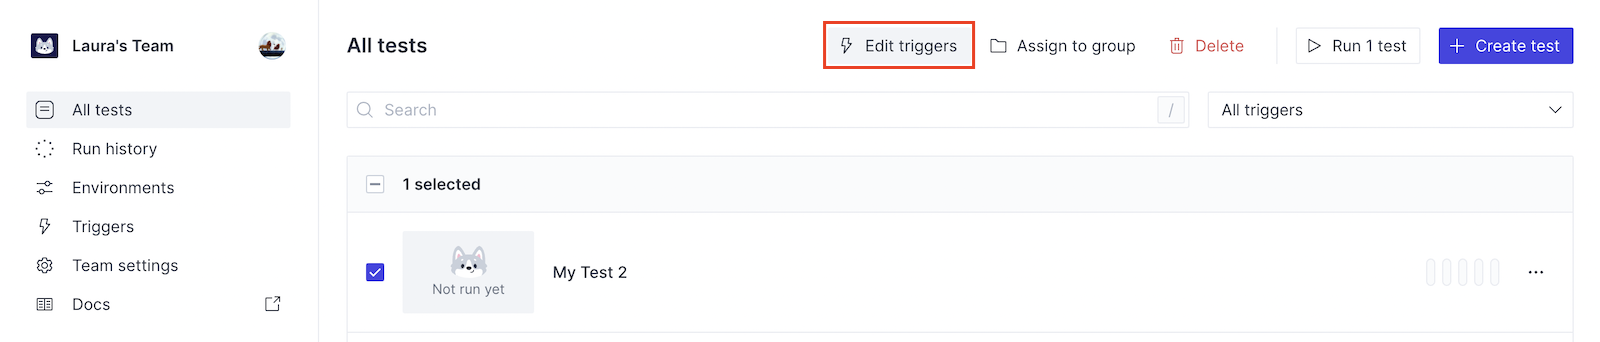
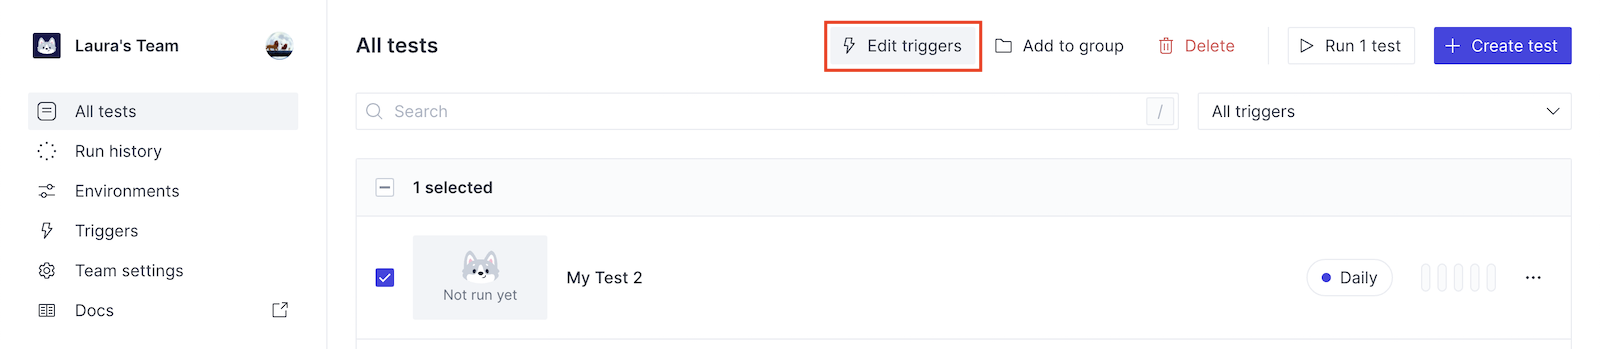
update group modal

diff --git a/app/components/Modals/EditTestsGroup/index.tsx b/app/components/Modals/EditTestsGroup/index.tsx
@@ -1,17 +1,19 @@
-import { Box, RadioButtonGroup, ThemeContext } from "grommet";
-import { ChangeEvent, useContext, useState } from "react";
+import { Box, ThemeContext } from "grommet";
+import { useContext, useState } from "react";
 
-import { useUpdateTestsGroup } from "../../hooks/mutations";
-import { useOnHotKey } from "../../hooks/onHotKey";
-import { useGroups } from "../../hooks/queries";
-import { SelectedTest } from "../../lib/types";
-import { copy } from "../../theme/copy";
-import { theme } from "../../theme/theme-new";
-import Modal from "../shared-new/Modal";
-import Buttons from "../shared-new/Modal/Buttons";
-import Header from "../shared-new/Modal/Header";
-import Text from "../shared-new/Text";
-import { StateContext } from "../StateContext";
+import { useUpdateTestsGroup } from "../../../hooks/mutations";
+import { useOnHotKey } from "../../../hooks/onHotKey";
+import { useGroups } from "../../../hooks/queries";
+import { SelectedTest } from "../../../lib/types";
+import { copy } from "../../../theme/copy";
+import { theme } from "../../../theme/theme-new";
+import Divider from "../../shared-new/Divider";
+import Modal from "../../shared-new/Modal";
+import Buttons from "../../shared-new/Modal/Buttons";
+import Header from "../../shared-new/Modal/Header";
+import Text from "../../shared-new/Text";
+import { StateContext } from "../../StateContext";
+import ListItem from "./ListItem";
 
 type Props = {
   closeModal: () => void;
@@ -40,10 +42,6 @@ export default function EditTestsGroup({
     getInitialGroupId(tests)
   );
 
-  const handleChange = (e: ChangeEvent<HTMLInputElement>): void => {
-    setGroupId(e.target.value);
-  };
-
   const handleClick = (): void => {
     updateTestsGroup({
       variables: {
@@ -55,9 +53,15 @@ export default function EditTestsGroup({
 
   useOnHotKey({ hotKey: "Enter", onHotKey: handleClick });
 
-  const testNames = tests.map((test) => test.name).join(", ");
-  const options = (groups || []).map((g) => {
-    return { label: g.name, value: g.id };
+  const optionsHtml = (groups || []).map((g) => {
+    return (
+      <ListItem
+        group={g}
+        isChecked={g.id === groupId}
+        key={g.id}
+        onClick={setGroupId}
+      />
+    );
   });
 
   return (
@@ -65,28 +69,29 @@ export default function EditTestsGroup({
       <Modal a11yTitle="edit tests group" closeModal={closeModal}>
         <Box pad="medium" overflow={{ vertical: "auto" }}>
           <Box flex={false}>
-            <Header closeModal={closeModal} label={copy.editTestsGroup} />
-            <Text color="gray9" margin={{ top: "xxsmall" }} size="component">
-              {copy.assignToGroupDetail}
-            </Text>
+            <Header
+              closeModal={closeModal}
+              label={copy.editTestsGroup(tests.length)}
+            />
             <Text
               color="gray9"
-              margin={{ vertical: "medium" }}
-              size="componentBold"
+              margin={{ bottom: "medium", top: "xxsmall" }}
+              size="component"
             >
-              {testNames}
+              {copy.addToGroupDetail}
             </Text>
-            <RadioButtonGroup
-              name="group"
-              onChange={handleChange}
-              options={[...options, { label: copy.none, value: "" }]}
-              value={groupId}
+            <ListItem
+              group={null}
+              isChecked={groupId === ""}
+              onClick={setGroupId}
             />
+            {optionsHtml}
+            <Divider />
             <Buttons
               onPrimaryClick={handleClick}
               onSecondaryClick={closeModal}
               primaryIsDisabled={loading}
-              primaryLabel={copy.assignToGroup}
+              primaryLabel={copy.addToGroup}
               secondaryLabel={copy.cancel}
             />
           </Box>

diff --git a/app/components/Modals/EditTestsGroup/ListItem.tsx b/app/components/Modals/EditTestsGroup/ListItem.tsx
@@ -1,0 +1,63 @@
+import { Box, Button } from "grommet";
+import styled from "styled-components";
+
+import { Group } from "../../../lib/types";
+import { copy } from "../../../theme/copy";
+import {
+  border,
+  colors,
+  edgeSize,
+  overflowStyle,
+  transitionDuration,
+} from "../../../theme/theme-new";
+import Folder from "../../shared-new/icons/Folder";
+import FolderEmpty from "../../shared-new/icons/FolderEmpty";
+import Text from "../../shared-new/Text";
+import Radio from "./Radio";
+
+type Props = {
+  group: Group | null;
+  isChecked: boolean;
+  onClick: (groupId: string) => void;
+};
+
+const StyledBox = styled(Box)`
+  transition: background ${transitionDuration};
+
+  &:hover {
+    background: ${colors.gray2};
+  }
+`;
+
+export default function ListItem({
+  group,
+  isChecked,
+  onClick,
+}: Props): JSX.Element {
+  const IconComponent = group ? Folder : FolderEmpty;
+  const groupName = group?.name || copy.noGroup;
+
+  const handleClick = (): void => onClick(group?.id || "");
+
+  return (
+    <Button a11yTitle={`select ${groupName}`} onClick={handleClick} plain>
+      <StyledBox
+        align="center"
+        direction="row"
+        border={{ ...border, side: "top" }}
+        pad={{ vertical: "small" }}
+      >
+        <Radio isChecked={isChecked} />
+        <IconComponent color={colors.gray9} size={edgeSize.small} />
+        <Text
+          color="gray9"
+          margin={{ left: "xxsmall" }}
+          size="component"
+          style={overflowStyle}
+        >
+          {groupName}
+        </Text>
+      </StyledBox>
+    </Button>
+  );
+}

diff --git a/app/theme/copy.ts b/app/theme/copy.ts
@@ -24,8 +24,8 @@ export const copy = {
   api: "API",
   apiDetail: "Trigger tests by calling the QA Wolf API:",
   apiKeyHere: "API KEY HERE",
-  assignToGroup: "Assign to group",
-  assignToGroupDetail: "Choose a group for the following tests:",
+  addToGroup: "Add to group",
+  addToGroupDetail: "Tests can only belong to one group at a time",
   back: "Back",
   backToDashboard: "Back to dashboard",
   blog: "Blog",
@@ -92,12 +92,13 @@ export const copy = {
     "Debug with video, logs, and the exact line a test failed on.",
   edit: "Edit",
   editTest: "Edit test",
-  editTestsGroup: "Assign tests to group",
+  editTestsGroup: (count: number): string =>
+    `Add ${count === 1 ? "" : `${count} tests `}to a group`,
   editTrigger: "Edit trigger",
   editTriggers: "Edit triggers",
   editTriggersDetail: "Choose which triggers you want to assign",
   editTriggersForTests: (count: number): string =>
-    `Edit triggers for ${count} test${count === 1 ? "" : "s"}`,
+    `Edit triggers${count === 1 ? "" : ` for ${count} tests`}`,
   email: "Email",
   emailPlaceholder: "you@awesome.com",
   emptyTestsSearch: "No tests found",
@@ -174,6 +175,7 @@ export const copy = {
   netlifyDeploy: "Your tests will run on Netlify deploy previews.",
   next: "Next",
   noEmail: "Please enter a valid email address",
+  noGroup: "No group",
   noHistory: "No history yet",
   noMobile:
     "Woof. We're not mobile friendly yet. Please try again on a larger screen!",

diff --git a/app/components/shared-new/icons/FolderEmpty.tsx b/app/components/shared-new/icons/FolderEmpty.tsx
@@ -1,0 +1,18 @@
+import { Blank, IconProps } from "grommet-icons";
+
+export default function FolderEmpty(props: IconProps): JSX.Element {
+  return (
+    <Blank {...props} viewBox="0 0 16 16">
+      <path
+        fillRule="evenodd"
+        clipRule="evenodd"
+        d="M12.7071 4H14C14.2652 4 14.5196 4.10536 14.7071 4.29289C14.8946 4.48043 15 4.73478 15 5V13C15 13.2652 14.8946 13.5196 14.7071 13.7071C14.5196 13.8946 14.2652 14 14 14H2.70705L1.70705 15L1 14.2929L14.2929 1L15 1.70705L12.7071 4ZM3.70705 13H14V5H11.7071L3.70705 13Z"
+        fill={props.color}
+      />
+      <path
+        d="M5.5858 3H2V12H1V3C1 2.73478 1.10536 2.48043 1.29289 2.29289C1.48043 2.10536 1.73478 2 2 2H5.5858C5.85103 2.00004 6.10539 2.10541 6.29295 2.29295L8 4H9V5H7.5858L5.5858 3Z"
+        fill={props.color}
+      />
+    </Blank>
+  );
+}

diff --git a/app/components/Modals/EditTestsGroup/Radio.tsx b/app/components/Modals/EditTestsGroup/Radio.tsx
@@ -1,0 +1,30 @@
+import { Box } from "grommet";
+
+import { borderSize, edgeSize, transition } from "../../../theme/theme-new";
+
+type Props = { isChecked: boolean };
+
+const size = edgeSize.xxsmall;
+
+export default function Radio({ isChecked }: Props): JSX.Element {
+  return (
+    <Box
+      border={{
+        color: isChecked ? "primary" : "gray4",
+        size: borderSize.xsmall,
+      }}
+      margin={{ right: "small" }}
+      round="full"
+      style={{ transition }}
+    >
+      <Box
+        background={isChecked ? "primary" : "transparent"}
+        height={size}
+        margin={borderSize.small}
+        round="full"
+        style={{ transition }}
+        width={size}
+      />
+    </Box>
+  );
+}

diff --git a/app/components/Dashboard/Tests/List/TestCard/Options.tsx b/app/components/Dashboard/Tests/List/TestCard/Options.tsx
@@ -64,7 +64,7 @@ export default function Options({ test }: Props): JSX.Element {
           />
           <Option
             IconComponent={Folder}
-            label={copy.assignToGroup}
+            label={copy.addToGroup}
             onClick={handleGroupClick}
           />
           <Divider margin={{ vertical: "xxxsmall" }} />

diff --git a/app/components/Docs/CreateTrigger.tsx b/app/components/Docs/CreateTrigger.tsx
@@ -32,7 +32,7 @@ export default function CreateTrigger({ description }: Props): JSX.Element {
       </p>
       <Image
         alt="Add trigger from dashboard with tests selected"
-        height={342}
+        height={349}
         src="/docs/run-tests-on-a-schedule/add-trigger-dashboard-selected.png"
         width={1600}
       />

diff --git a/app/components/Dashboard/Tests/Header/Actions.tsx b/app/components/Dashboard/Tests/Header/Actions.tsx
@@ -42,7 +42,7 @@ export default function Actions({ checkedTests }: Props): JSX.Element {
       />
       <Button
         IconComponent={Folder}
-        label={copy.assignToGroup}
+        label={copy.addToGroup}
         margin={{ horizontal: "xxsmall" }}
         onClick={handleGroupClick}
         type="ghost"
